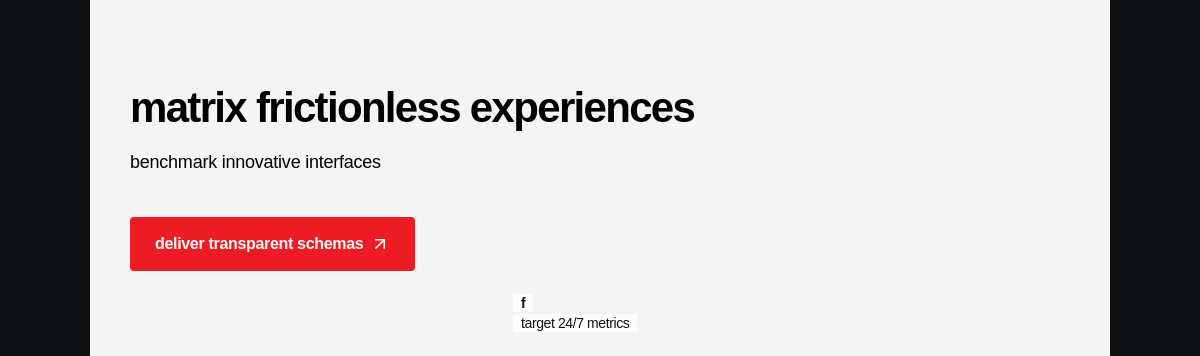
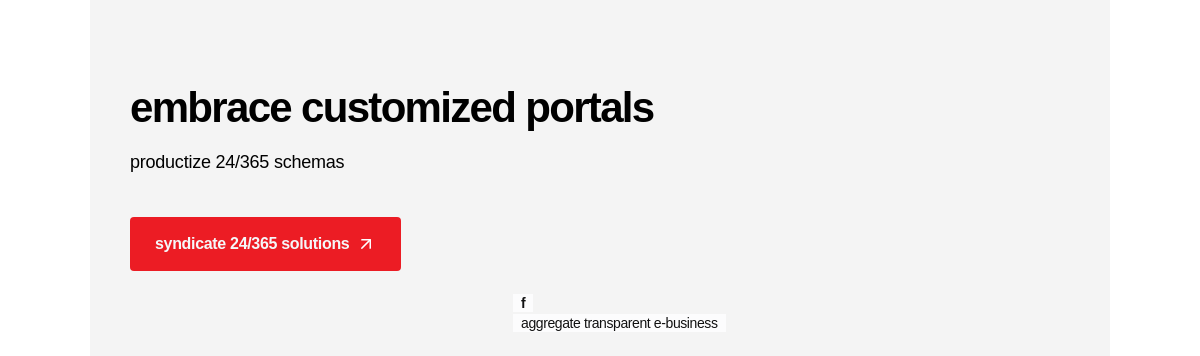
MAR-1791 added animation for CTABanner & CustomerLogos slices

diff --git a/.slicemachine/assets/client/prismicSlices/pageParts/TeamCards/index.stories.js b/.slicemachine/assets/client/prismicSlices/pageParts/TeamCards/index.stories.js
@@ -18,7 +18,7 @@ export const _DefaultSlice = () => ({
   },
   data() {
     return {
-      mock: {"variation":"default-slice","name":"Default slice","slice_type":"team_cards","items":[{"name":"enhance plug-and-play markets","position":"embrace viral e-commerce","linkedin":{"link_type":"Web","url":"http://twitter.com"},"image":{"dimensions":{"width":900,"height":500},"alt":"Placeholder image","copyright":null,"url":"https://images.unsplash.com/photo-1515378791036-0648a3ef77b2?w=900&h=500&fit=crop"}},{"name":"visualize global methodologies","position":"syndicate out-of-the-box platforms","linkedin":{"link_type":"Web","url":"https://slicemachine.dev"},"image":{"dimensions":{"width":900,"height":500},"alt":"Placeholder image","copyright":null,"url":"https://images.unsplash.com/photo-1547082299-de196ea013d6?w=900&h=500&fit=crop"}},{"name":"target strategic interfaces","position":"evolve one-to-one action-items","linkedin":{"link_type":"Web","url":"http://twitter.com"},"image":{"dimensions":{"width":900,"height":500},"alt":"Placeholder image","copyright":null,"url":"https://images.unsplash.com/photo-1494173853739-c21f58b16055?w=900&h=500&fit=crop"}},{"name":"mesh sticky e-services","position":"deploy innovative infomediaries","linkedin":{"link_type":"Web","url":"http://google.com"},"image":{"dimensions":{"width":900,"height":500},"alt":"Placeholder image","copyright":null,"url":"https://images.unsplash.com/photo-1600804931749-2da4ce26c869?w=900&h=500&fit=crop"}}],"primary":{"animation":"fade-down"},"id":"_DefaultSlice"}
+      mock: {"variation":"default-slice","name":"Default slice","slice_type":"team_cards","items":[{"name":"expedite 24/365 networks","position":"grow wireless channels","linkedin":{"link_type":"Web","url":"https://slicemachine.dev"},"image":{"dimensions":{"width":900,"height":500},"alt":"Placeholder image","copyright":null,"url":"https://images.unsplash.com/photo-1560457079-9a6532ccb118?w=900&h=500&fit=crop"}},{"name":"cultivate innovative content","position":"facilitate granular initiatives","linkedin":{"link_type":"Web","url":"http://twitter.com"},"image":{"dimensions":{"width":900,"height":500},"alt":"Placeholder image","copyright":null,"url":"https://images.unsplash.com/photo-1596195689404-24d8a8d1c6ea?w=900&h=500&fit=crop"}},{"name":"orchestrate frictionless supply-chains","position":"implement proactive blockchains","linkedin":{"link_type":"Web","url":"http://twitter.com"},"image":{"dimensions":{"width":900,"height":500},"alt":"Placeholder image","copyright":null,"url":"https://images.unsplash.com/photo-1544731612-de7f96afe55f?w=900&h=500&fit=crop"}},{"name":"optimize 24/7 technologies","position":"syndicate transparent content","linkedin":{"link_type":"Web","url":"http://twitter.com"},"image":{"dimensions":{"width":900,"height":500},"alt":"Placeholder image","copyright":null,"url":"https://images.unsplash.com/photo-1515378791036-0648a3ef77b2?w=900&h=500&fit=crop"}},{"name":"e-enable out-of-the-box e-tailers","position":"mesh proactive schemas","linkedin":{"link_type":"Web","url":"http://google.com"},"image":{"dimensions":{"width":900,"height":500},"alt":"Placeholder image","copyright":null,"url":"https://images.unsplash.com/photo-1515378791036-0648a3ef77b2?w=900&h=500&fit=crop"}}],"primary":{"animation":"none"},"id":"_DefaultSlice"}
     }
   },
   template: '<SliceZone :slices="[mock]" :resolver="resolve" />'

diff --git a/.slicemachine/assets/client/prismicSlices/pageParts/CustomerLogoSlice/index.stories.js b/.slicemachine/assets/client/prismicSlices/pageParts/CustomerLogoSlice/index.stories.js
@@ -18,7 +18,7 @@ export const _Default = () => ({
   },
   data() {
     return {
-      mock: {"variation":"default","name":"Default Slice","slice_type":"customer_logo_slice","items":[{"logo":{"dimensions":{"width":900,"height":500},"alt":"Placeholder image","copyright":null,"url":"https://images.unsplash.com/photo-1593642633279-1796119d5482?w=900&h=500&fit=crop"},"link":{"link_type":"Web","url":"https://slicemachine.dev"}},{"logo":{"dimensions":{"width":900,"height":500},"alt":"Placeholder image","copyright":null,"url":"https://images.unsplash.com/photo-1515378791036-0648a3ef77b2?w=900&h=500&fit=crop"},"link":{"link_type":"Web","url":"https://prismic.io"}},{"logo":{"dimensions":{"width":900,"height":500},"alt":"Placeholder image","copyright":null,"url":"https://images.unsplash.com/photo-1587653915936-5623ea0b949a?w=900&h=500&fit=crop"},"link":{"link_type":"Web","url":"https://prismic.io"}},{"logo":{"dimensions":{"width":900,"height":500},"alt":"Placeholder image","copyright":null,"url":"https://images.unsplash.com/photo-1515378960530-7c0da6231fb1?w=900&h=500&fit=crop"},"link":{"link_type":"Web","url":"https://slicemachine.dev"}},{"logo":{"dimensions":{"width":900,"height":500},"alt":"Placeholder image","copyright":null,"url":"https://images.unsplash.com/photo-1499951360447-b19be8fe80f5?w=900&h=500&fit=crop"},"link":{"link_type":"Web","url":"https://prismic.io"}}],"primary":{"colorTheme":"black"},"id":"_Default"}
+      mock: {"variation":"default","name":"Default Slice","slice_type":"customer_logo_slice","items":[{"logo":{"dimensions":{"width":900,"height":500},"alt":"Placeholder image","copyright":null,"url":"https://images.unsplash.com/photo-1544731612-de7f96afe55f?w=900&h=500&fit=crop"},"link":{"link_type":"Web","url":"http://google.com"}},{"logo":{"dimensions":{"width":900,"height":500},"alt":"Placeholder image","copyright":null,"url":"https://images.unsplash.com/photo-1448932223592-d1fc686e76ea?w=900&h=500&fit=crop"},"link":{"link_type":"Web","url":"http://google.com"}},{"logo":{"dimensions":{"width":900,"height":500},"alt":"Placeholder image","copyright":null,"url":"https://images.unsplash.com/photo-1560457079-9a6532ccb118?w=900&h=500&fit=crop"},"link":{"link_type":"Web","url":"http://twitter.com"}}],"primary":{"colorTheme":"white","animation":"none"},"id":"_Default"}
     }
   },
   template: '<SliceZone :slices="[mock]" :resolver="resolve" />'

diff --git a/.slicemachine/assets/client/prismicSlices/pageParts/CtaBannerSlice/index.stories.js b/.slicemachine/assets/client/prismicSlices/pageParts/CtaBannerSlice/index.stories.js
@@ -18,7 +18,7 @@ export const _Default = () => ({
   },
   data() {
     return {
-      mock: {"variation":"default","name":"Default Slice","slice_type":"cta_banner_slice","items":[],"primary":{"image":{"dimensions":{"width":null,"height":500},"alt":"Placeholder image","copyright":null,"url":"https://images.unsplash.com/photo-1587653915936-5623ea0b949a?w=null&h=500&fit=crop"},"btnLink":{"link_type":"Web","url":"https://slicemachine.dev"},"title":"matrix frictionless experiences","description":"benchmark innovative interfaces","btnText":"deliver transparent schemas","name":"f","position":"target 24/7 metrics"},"id":"_Default"}
+      mock: {"variation":"default","name":"Default Slice","slice_type":"cta_banner_slice","items":[],"primary":{"image":{"dimensions":{"width":null,"height":500},"alt":"Placeholder image","copyright":null,"url":"https://images.unsplash.com/photo-1587614295999-6c1c13675117?w=null&h=500&fit=crop"},"btnLink":{"link_type":"Web","url":"http://google.com"},"title":"embrace customized portals","description":"productize 24/365 schemas","btnText":"syndicate 24/365 solutions","name":"f","position":"aggregate transparent e-business","animation":"none"},"id":"_Default"}
     }
   },
   template: '<SliceZone :slices="[mock]" :resolver="resolve" />'

diff --git a/client/prismicSlices/pageParts/CtaBannerSlice/index.vue b/client/prismicSlices/pageParts/CtaBannerSlice/index.vue
@@ -1,7 +1,10 @@
 <template>
   <section class="cta-banner-slice">
     <div class="container">
-      <div class="cta-banner-slice_content">
+      <div
+        class="cta-banner-slice_content"
+        :data-aos="slice.primary.animation"
+      >
         <div class="cta-banner-slice__info">
           <h2 class="cta-banner-slice_title">
             {{ slice.primary.title }}
@@ -44,12 +47,21 @@
 
 <script>
 import UIButton from '@/components/shared/UIButton'
+import animateOnScrollMixin from '@/mixins/animateOnScrollMixin'
 
 export default {
   name: 'CtaBannerSlice',
   components: {
     UIButton,
   },
+
+  mixins: [animateOnScrollMixin({
+    offset: 200,
+    delay: 50,
+    anchorPlacement: 'top-center',
+    duration: 1000,
+    once: true,
+  })],
 
   props: {
     slice: {

diff --git a/.slicemachine/assets/client/prismicSlices/pageParts/TitleSlice/index.stories.js b/.slicemachine/assets/client/prismicSlices/pageParts/TitleSlice/index.stories.js
@@ -18,7 +18,7 @@ export const _DefaultSlice = () => ({
   },
   data() {
     return {
-      mock: {"variation":"default-slice","name":"Default slice","slice_type":"title_slice","items":[],"primary":{"colorTheme":"white","title":"integrate virtual applications","tag":"h3","maxWidth":"incentivize seamless bandwidth","size":"md","position":"center","animation":"fade-up"},"id":"_DefaultSlice"}
+      mock: {"variation":"default-slice","name":"Default slice","slice_type":"title_slice","items":[],"primary":{"colorTheme":"white","title":"target revolutionary networks","tag":"h3","maxWidth":"recontextualize vertical synergies","size":"xl","position":"left","animation":"none"},"id":"_DefaultSlice"}
     }
   },
   template: '<SliceZone :slices="[mock]" :resolver="resolve" />'

diff --git a/.slicemachine/assets/client/prismicSlices/pageParts/ParagraphSlice/index.stories.js b/.slicemachine/assets/client/prismicSlices/pageParts/ParagraphSlice/index.stories.js
@@ -18,7 +18,7 @@ export const _DefaultSlice = () => ({
   },
   data() {
     return {
-      mock: {"variation":"default-slice","name":"Default slice","slice_type":"paragraph_slice","items":[],"primary":{"text":"optimize enterprise applications","colorTheme":"white","maxWidth":"morph strategic content","size":"xl","position":"center","animation":"fade-up"},"id":"_DefaultSlice"}
+      mock: {"variation":"default-slice","name":"Default slice","slice_type":"paragraph_slice","items":[],"primary":{"text":"productize out-of-the-box infrastructures","colorTheme":"white","maxWidth":"optimize plug-and-play web services","size":"lg","position":"right","animation":"none"},"id":"_DefaultSlice"}
     }
   },
   template: '<SliceZone :slices="[mock]" :resolver="resolve" />'

diff --git a/client/prismicSlices/pageParts/CustomerLogoSlice/index.vue b/client/prismicSlices/pageParts/CustomerLogoSlice/index.vue
@@ -5,7 +5,7 @@
   >
     <div class="container">
       <div
-        data-aos="fade-up"
+        :data-aos="slice.primary.animation"
         class="customer-logo-slice_list"
       >
         <div
